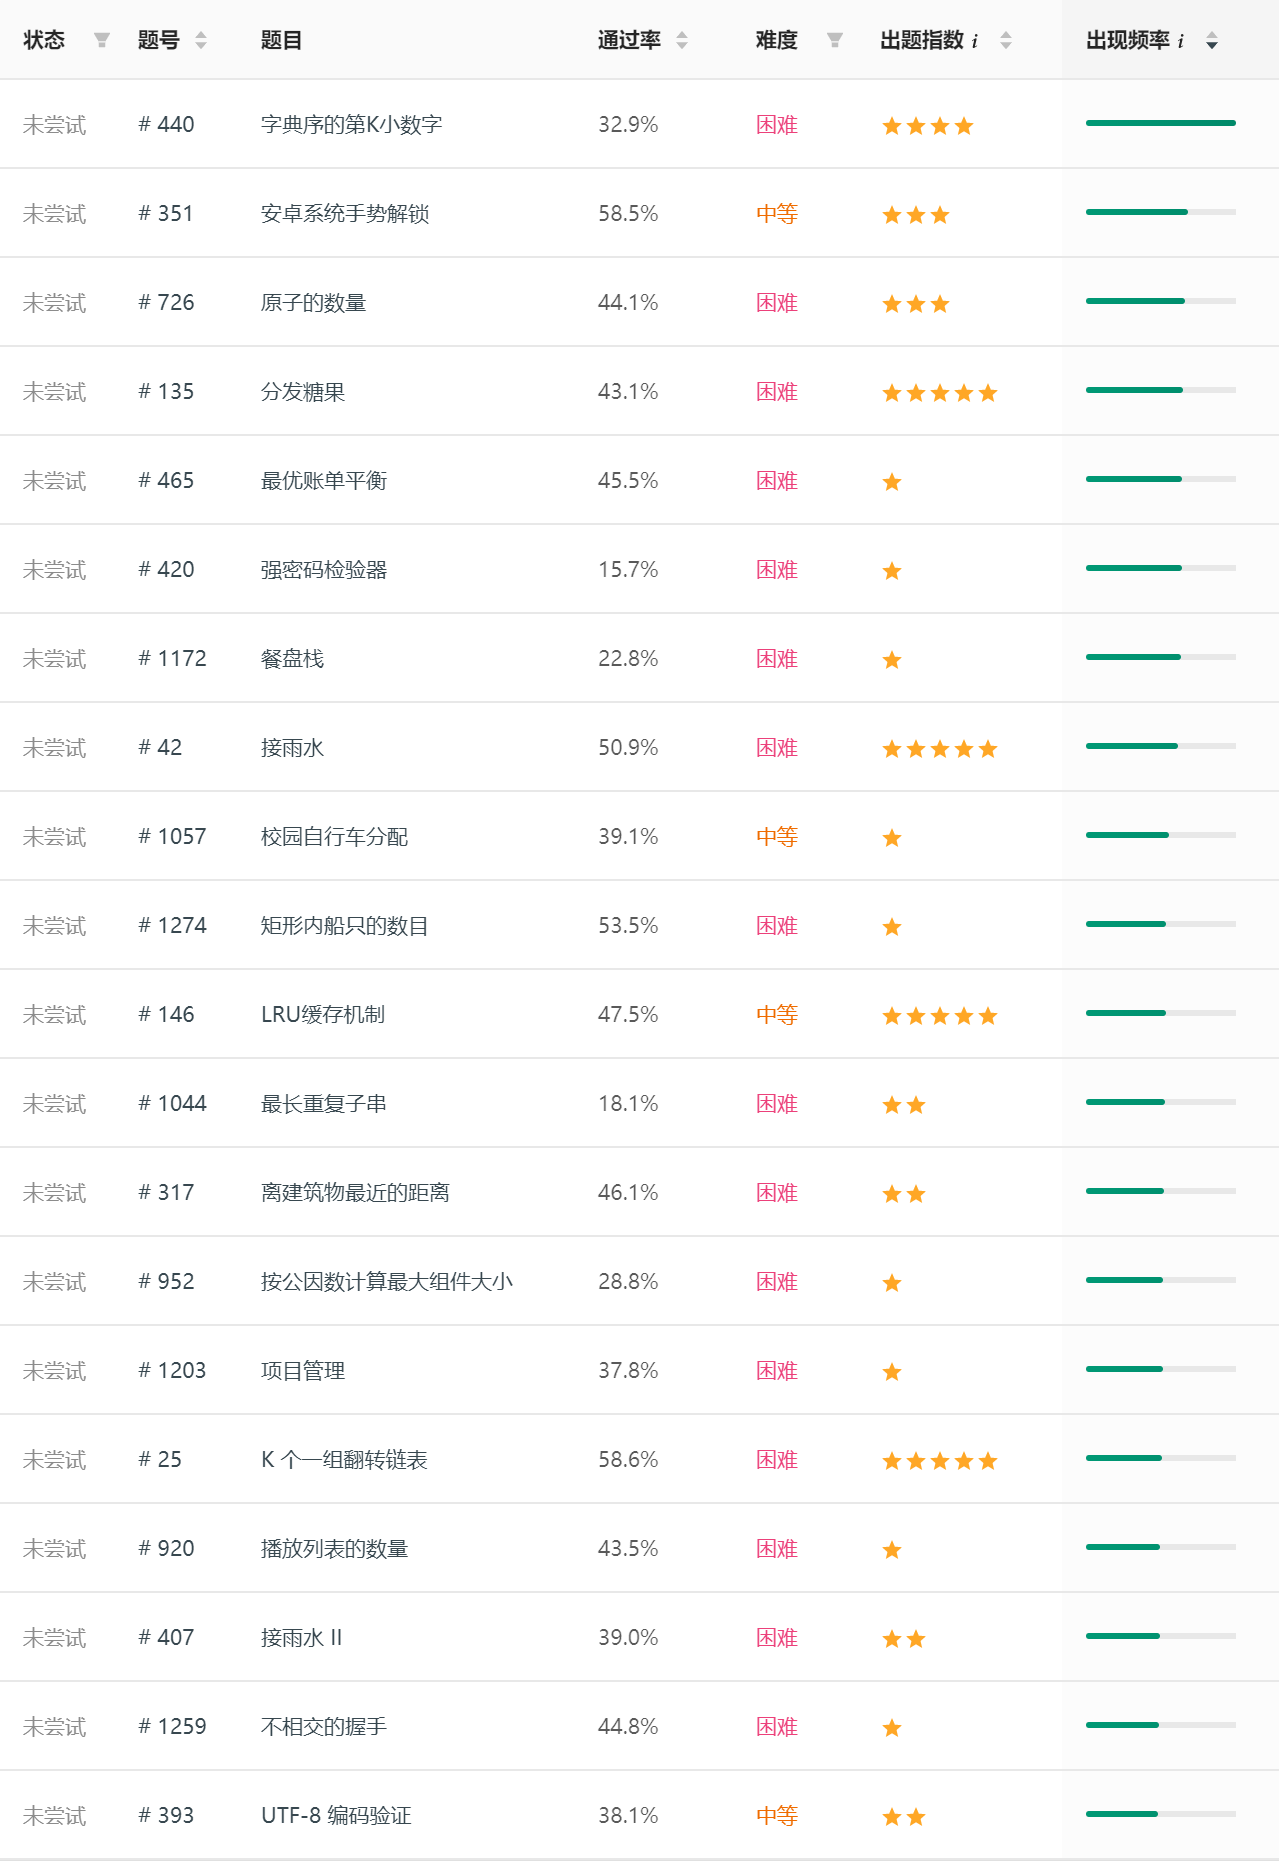
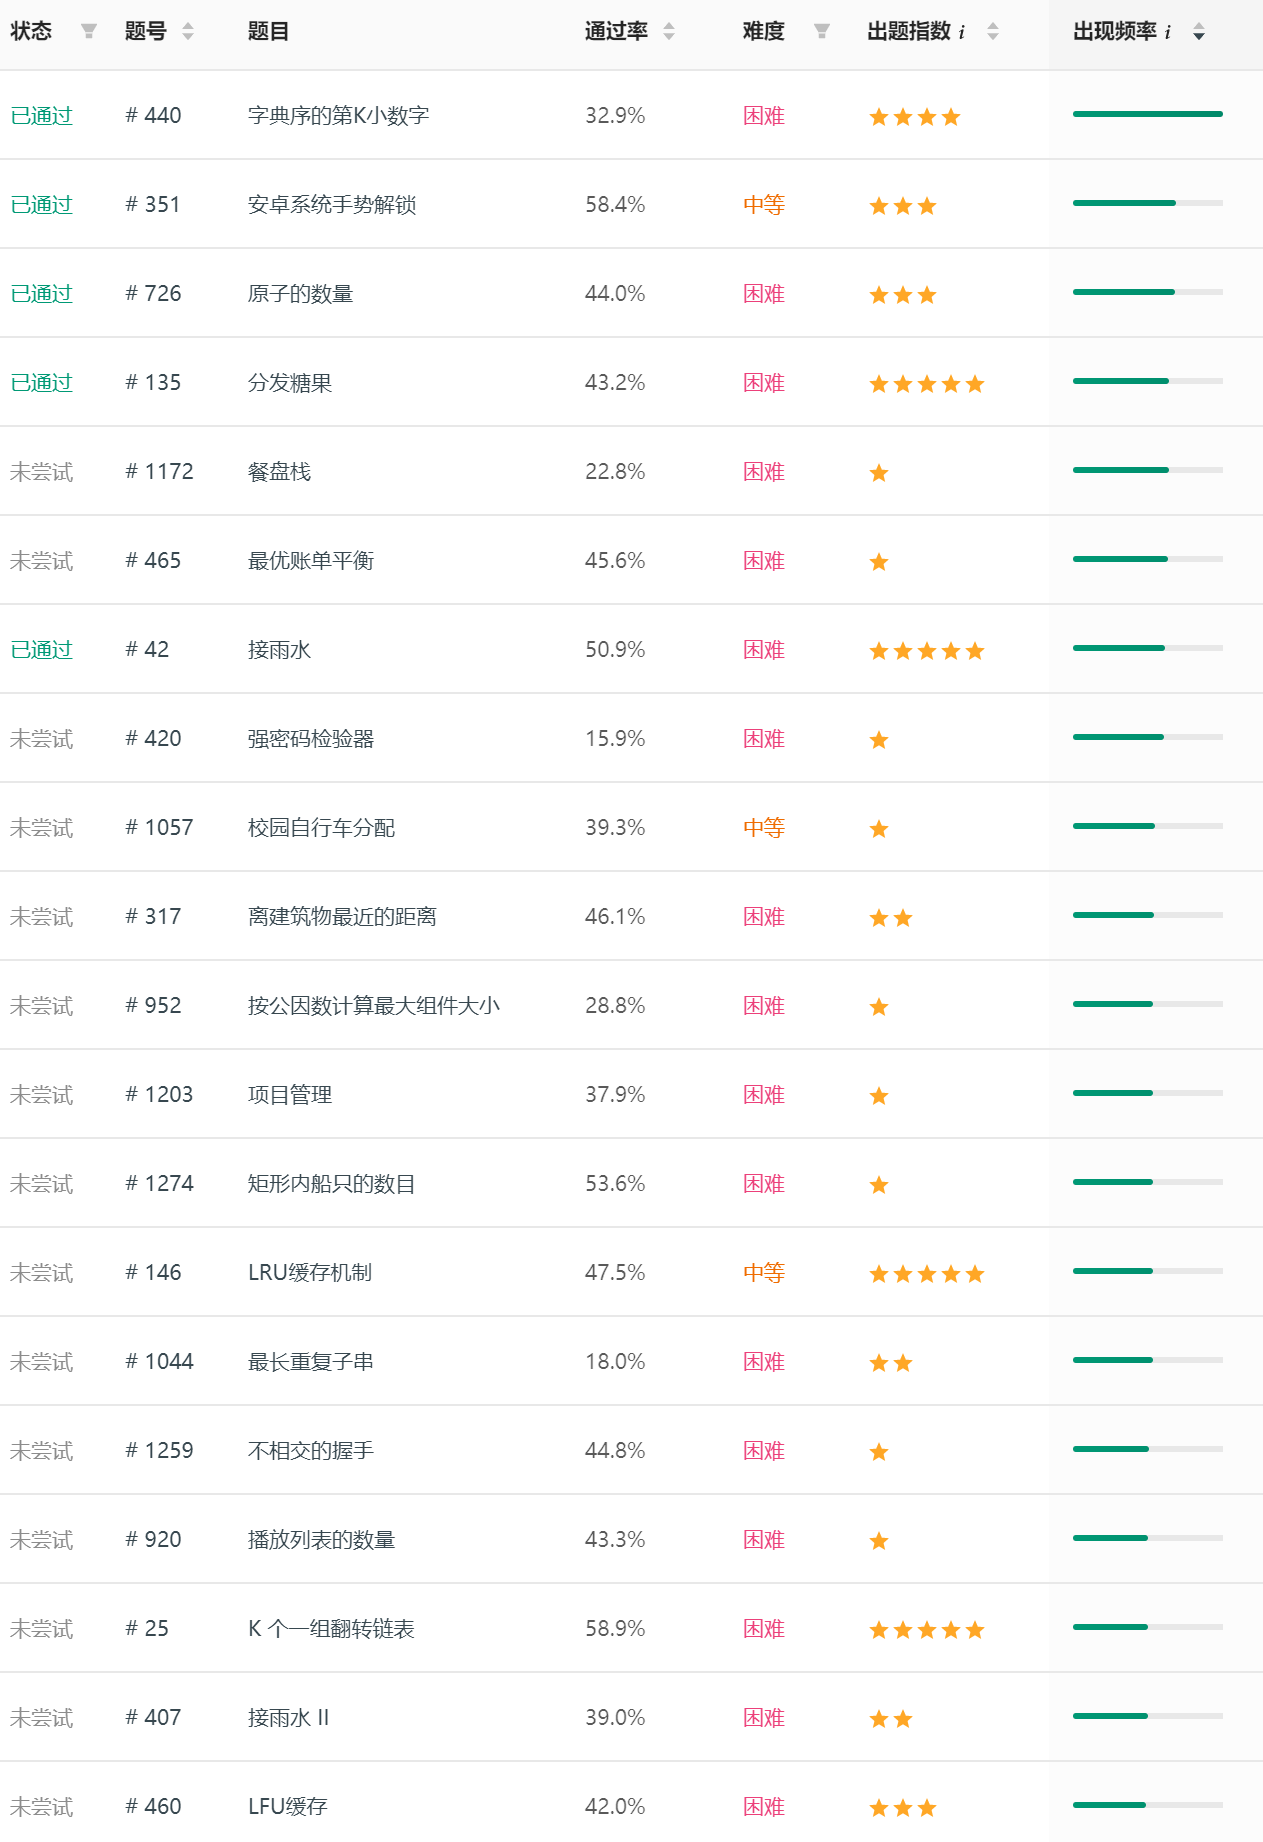
update 5/16

diff --git a/_pages/LeetCode/2020-05-14-ByteDance.md b/_pages/LeetCode/2020-05-14-ByteDance.md
@@ -1,14 +1,12 @@
 ---
 layout: post
-title: LeetCode-字节跳动高频题
-excerpt: "LeetCode问题的解答：字节跳动高频题"
+title: LeetCode-公司算法高频题
+excerpt: "LeetCode问题的解答：公司算法高频题"
 categories: [Algorithm]
 comments: true
 ---
 
 
-
-![bytedance1](https://two2er.github.io/img/frequent_leetcode/bytedance1.png)
 
 ## 440. K-th Smallest in Lexicographical Order
 
@@ -329,11 +327,148 @@ public:
 
 
 
+## 887. Super Egg Drop
 
+> You are given `K` eggs, and you have access to a building with `N` floors from `1` to `N`. 
+>
+> Each egg is identical in function, and if an egg breaks, you cannot drop it again.
+>
+> You know that there exists a floor `F` with `0 <= F <= N` such that any egg dropped at a floor higher than `F` will break, and any egg dropped at or below floor `F` will not break.
+>
+> Each *move*, you may take an egg (if you have an unbroken one) and drop it from any floor `X` (with `1 <= X <= N`). 
+>
+> Your goal is to know **with certainty** what the value of `F` is.
+>
+> What is the minimum number of moves that you need to know with certainty what `F` is, regardless of the initial value of `F`?
+>
+> **Example 1:**
+>
+> ```
+> Input: K = 1, N = 2
+> Output: 2
+> Explanation: 
+> Drop the egg from floor 1.  If it breaks, we know with certainty that F = 0.
+> Otherwise, drop the egg from floor 2.  If it breaks, we know with certainty that F = 1.
+> If it didn't break, then we know with certainty F = 2.
+> Hence, we needed 2 moves in the worst case to know what F is with certainty.
+> ```
+>
+> **Example 2:**
+>
+> ```
+> Input: K = 2, N = 6
+> Output: 3
+> ```
+>
+> **Example 3:**
+>
+> ```
+> Input: K = 3, N = 14
+> Output: 4
+> ```
 
+这道题可以用动态规划解决。令`dp[k][n]`为使用`k`个鸡蛋，从`n`层楼中找出`F`的最小移动数。假设在这`n`层楼中，我们选择楼层`1 <= x <= n`开始扔鸡蛋。如果鸡蛋破碎，说明`F < x`，`[x, n]`这些楼层可以排除。接下来的任务是利用`k-1`个鸡蛋，从`x-1`层楼中找出`F`，所需最小步数为`dp[k-1][x-1]`。如果鸡蛋没有碎，说明`F >= x`。接下来的任务是利用`k`个鸡蛋去`[x+1, n]`这些楼层尝试（第`x`层不再需要尝试。如果在第`x+1`层扔鸡蛋时破碎，说明`F = x`），所需最小步数为`dp[k][n-x]`。因此，在`x`层丢鸡蛋，所需的移动数为`max(1 + dp[k-1][x-1], 1 + dp[k][n-x])`。（至于为什么是`max`，我的想法是，题目要求保证能找到`F`的前提下的最小移动数。这是在求最低上限。求下限没有意义，因为运气好的话，我在`N`层楼中，随便挑一层楼`x`，在`x`和`x+1`各扔一次鸡蛋，一个碎一个没碎，就可以判断出`F = x`了。此时移动数的下限为2，它并没有实际的意义，因为移动2步不能保证对于任意初始值的`F`，都能找得出来。我们需要保证对任意初始值的`F`，都可以找出来，就要求移动数的上限。）由于`dp[k-1][x-1]`和`dp[k][n-x]`在求`dp[k][n]`前便已经计算过，所以我们可以确定在第`x`层扔鸡蛋，需要多少步才能确保找出`F`。我们考察`1 <= x <= n`的所有`x`，找出那个最小的步数，即是`dp[k][n]`的值。
 
+$$dp[k][n] = 1 + \min_{1\leq x\leq n} \max(dp[k-1][x-1], dp[k][n-x])$$
 
+初始时，`dp[k][1] = 1`，因为楼层只有一层楼，扔一次就可以；`dp[1][n] = n`，因为必须从1楼扔起，扔2楼扔3楼……最坏情况是一直扔到`n`楼。另外为了计算方便，设`dp[k][0] = 0`。完成初始化后，按下面的代码更新`dp`数组：
 
+```c++
+class Solution {
+public:
+    int superEggDrop(int K, int N) {
+        vector<vector<int>> dp(K+1, vector<int>(N+1));
+        for (int k = 0; k <= K; ++k) dp[k][0] = 0, dp[k][1] = 1;
+        for (int n = 1; n <= N; ++n) dp[1][n] = n;
+        
+        for (int k = 2; k <= K; ++k) {
+            for (int n = 2; n <= N; ++n) {
+                dp[k][n] = 0x7fffffff;
+                for (int x = 1; x <= n; ++x) {
+                    dp[k][n] = min(dp[k][n], 1 + max(dp[k-1][x-1], dp[k][n-x]));
+                }
+            }
+        }
+        return dp[K][N];
+    }
+};
+```
+
+这个算法的时间复杂度为`O(KN^2)`，非常高，提交`LeetCode`以后会超时。因此，需要对时间复杂度进行一些优化。事实上，由于`dp[k][n]`是随着`n`递增而递增的，所以在最内层循环中，`dp[k-1][x-1]`会随着`x`递增而递增，`dp[k][n-x]`会随着`x`递增而递减。想象一下，一开始时`x = 1`，应该是`dp[k-1][x-1] <= dp[k][n-x]`，它们的最大值是`dp[k][n-x]`。随着`x`递增，这两个函数会相遇，之后最大值变成了`dp[k-1][x-1]`。显然，这两个函数越靠近时，它们的最大值就越小。因此，最大值应该是呈下降->上升趋势。要找最大值的最小值，可以用二分查找。内层循环的复杂度变为`O(lgN)`，算法整体的复杂度也下降到了`O(KNlgN)`。
+
+```c++
+int lo = 1, hi = n;
+while (lo + 1 < hi) {
+    x = (lo + hi) / 2;
+    if (dp[k-1, x-1] < dp[k, n-x]) lo = x;	// 交点在左边
+    else if (dp[k-1, x-1] > dp[k, n-x]) hi = x;	// 交点在右边
+    else lo = hi = x;  // 发现了交点
+}
+// 这个官方提供的二分查找保留了两个候选项lo和hi
+// 事实上因为dp[k-1, x-1]和dp[k, n-x]是离散的，可能没有交点，所以二分查找要在lo = hi - 1
+// 且dp[k-1, lo-1] < dp[k, n-lo] && dp[k-1, hi-1] > dp[k, n-hi]处停下。lo和hi正好在交点两边
+ans = 1 + min(max(dp[k-1, lo-1], dp[k, n-lo]), max(dp[k-1, hi-1], dp[k, n-hi]));
+```
+
+上面的状态转移方程意图是让我们寻找点
+
+$$x_{opt} = \arg\min_{1\leq x\leq n} \max(dp[k-1][x-1], dp[k][n-x])$$
+
+当`n`增加时，`dp[k-1][x-1]`不变，`dp[k][n-x]`增加。由于我们是寻找这两个函数的交点。我们可以把`T1 = dp[k-1][x-1]`想象成是一条斜率为正的线，`T2 = dp[k][n-x]`是一条斜率为负的线。`n`增加，`T2`抬高。这时交点会向右移。因此，在第二层循环`for (int n = 2; n <= N; ++n)`中，如果已经算得`n`的$x_{opt}$，那么要计算`n+1`的`x_{opt}`时，只需从`n`的$x_{opt}$开始计算。上述算法可以改进成下面，时间复杂度进一步减少到`O(KN)`：
+
+![bytedance2](https://two2er.github.io/img/frequent_leetcode/bytedance2.png)
+
+```c++
+class Solution {
+public:
+    int superEggDrop(int K, int N) {
+        vector<vector<int>> dp(K+1, vector<int>(N+1));
+        for (int k = 0; k <= K; ++k) dp[k][0] = 0, dp[k][1] = 1;
+        for (int n = 1; n <= N; ++n) dp[1][n] = n;
+        
+        for (int k = 2; k <= K; ++k) {
+            int x = 1;
+            for (int n = 2; n <= N; ++n) {
+                // max(dp[k-1][x-1], dp[k][n-x]还在呈下降趋势
+                while (x < n && max(dp[k-1][x-1], dp[k][n-x]) > max(dp[k-1][x], dp[k][n-x-1])) 
+                    ++x;
+                dp[k][n] = 1 + max(dp[k-1][x-1], dp[k][n-x]);
+            }
+        }
+        return dp[K][N];
+    }
+};
+```
+
+另外，在空间复杂度上也可以进行优化。二维数组`dp`可以用两个一维数组代替，一个记录`dp[k-1]`一个记录`dp[k]`。
+
+在官方回答中，还提到了一种理论上时间复杂度更小的办法。这种方法也是动态规划，不过它求的是：给定`T`次移动和`K`个鸡蛋，最多能检测的楼层数`N = f(T, K)`。对于一个`T`，如果`f(T, K)`不小于题目给的`N`，那么说明可以用`T`步来找出题目中所说的`F`。因此，我们就把题目转化成：求满足`f(T, K) >= N`的最小的`T`。
+
+`f(T, K)`的转移方程比较难想。假设有一栋楼高`M`，至少用`T`次移动和`K`个鸡蛋才能测出它的`F`。那么`f(T, K) = M`。我们在这栋楼的某一层扔鸡蛋，假如它碎了，我们就排除当前楼层上面的楼层，专注于下面的楼层。下面的楼层的高度`Md`显然是等于`f(T-1, K-1)`，因为测出下面楼层的`F`，是测出整栋楼`F`的一个环节。反之，如果鸡蛋没碎，那么当前楼层下面楼层就被排除，我们专注于上面的楼层。上面楼层的高度显然是`f(T-1, K)`，原理和前面的情况一样。因此，整栋楼的高度`f(T, K) = f(T-1, K-1) + f(T-1, K) + 1`。
+
+边界条件为：当`T >= 1`的时候，`f(T, 1) = T`，当`K >= 1`的时候，`f(1, K) = 1`。显然，`T <= N`。我们只需计算`f(1, 1)`到`f(N, K)`的所有值，找出其中不小于`N`的最小的`T`即可。由于找到了`T`程序就会返回，所以理论上的时间复杂度是小于`O(KN)`的。（官方结论是$O(K*\sqrt[K]{N})$。
+
+```c++
+class Solution {
+public:
+    int superEggDrop(int K, int N) {
+        if (N == 1) return 1;
+        vector<vector<int>> f(N + 1, vector<int>(K + 1));
+        for (int i = 1; i <= K; ++i) f[1][i] = 1;
+        
+        int ans = -1;
+        for (int i = 2; i <= N; ++i) {
+            for (int j = 1; j <= K; ++j)
+                f[i][j] = 1 + f[i - 1][j - 1] + f[i - 1][j];
+            if (f[i][K] >= N) {
+                ans = i;
+                break;
+            }
+        }
+        return ans;
+    }
+};
+```
 
 
 

diff --git a/_pages/LeetCode/2019-12-05-LCTop100.md b/_pages/LeetCode/2019-12-05-LCTop100.md
@@ -2082,6 +2082,33 @@ public:
 };
 ```
 
+下面是空间复杂度为`O(1)`的做法。不需要来回两趟遍历，而是从左右同时访问`height`。利用两个指针`left right`来指示左右当前位置。利用两个变量`max_left max_right`来存储`height[:left]`中元素的最大值和`height[right+1:]`中元素的最大值。如果`max_left < max_right`，显然，`left`所在位置的最高水位是受限于`max_left`的（它左边最高就是`max_left`了，右边有比`max_left`更高的高度）。`right`所在位置不一定会受限于`max_left`，因为在`height[left+1:right]`之中可能会有一个比`max_left`更高的高度，为`right`提高水位。因此，在`max_left < max_right`时，我们就考虑`left`；如果`height[left] > max_left`，则更新`max_left = height[left]`。此时在`left`处无法接雨水。如果`height[left] < max_left`，那么`left`处可以接雨水，体积为`max_left - height[left]`。在`max_left > max_right`时分析类似。
+
+```c++
+class Solution {
+public:
+    int trap(vector<int>& height) {
+        if (height.empty()) return 0;
+        int max_left = 0, max_right = 0, left = 0, right = height.size() - 1;
+        int rtn = 0;
+        while (left <= right) {
+            if (max_left < max_right) {
+                if (height[left] > max_left) max_left = height[left];
+                else rtn += max_left - height[left];
+                ++left;
+            } else {
+                if (height[right] > max_right) max_right = height[right];
+                else rtn += max_right - height[right];
+                --right;
+            }
+        }
+        return rtn;
+    }
+};
+```
+
+
+
 
 
 ## 114. Flatten Binary Tree to Linked List
